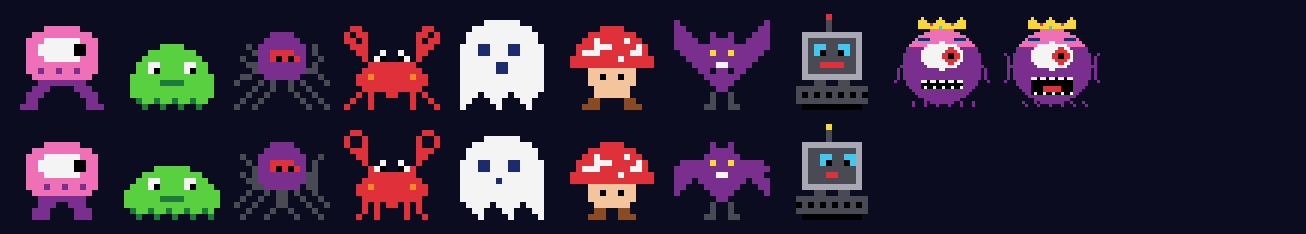
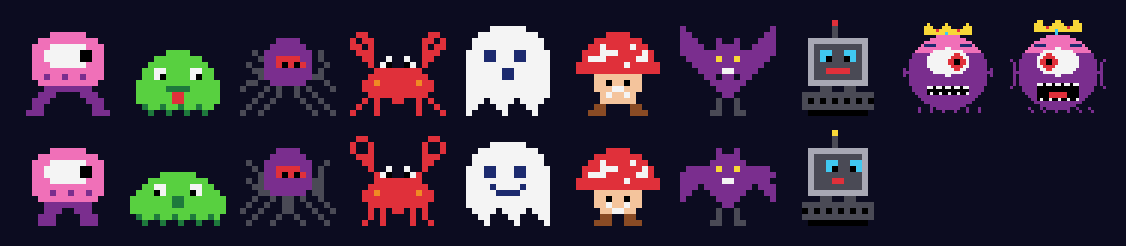
Use Paul's artwork as the standard designs
New looks for monsters 2, 5 and 6, both boss frames and the tile set 4
wall, taken from Paul's own sprites.txt. README pictures redrawn.

Claude-Session: https://claude.ai/code/session_01G6zRDJUmvdf1jbbeAH3QBB

diff --git a/defaults.cpp b/defaults.cpp
@@ -448,8 +448,8 @@ const char defaultSprites[] =
     "..BB70BBBB70BB..\n"
     ".BBBBBBBBBBBBBB.\n"
     ".BBBBB3333BBBBB.\n"
-    ".BBBBBBBBBBBBBB.\n"
-    ".BBBBBBBBBBBBBB.\n"
+    ".BBBBBB88BBBBBB.\n"
+    ".BBBBBB88BBBBBB.\n"
     "..3BB3BB3BB3BB..\n"
     "...3..3..3..3...\n"
     "END\n"
@@ -465,9 +465,9 @@ const char defaultSprites[] =
     ".....BBBBBB.....\n"
     "...BBBBBBBBBB...\n"
     "..BB77BBBB77BB..\n"
-    ".BBB70BBBB70BBB.\n"
-    "BBBBBBBBBBBBBBBB\n"
-    "BBBBBB3333BBBBBB\n"
+    ".BBB07BBBB07BBB.\n"
+    "BBBBBBB33BBBBBBB\n"
+    "BBBBBBB33BBBBBBB\n"
     "BBBBBBBBBBBBBBBB\n"
     ".3BB3BB3BB3BB3B.\n"
     "..3..3..3..3..3.\n"
@@ -581,8 +581,8 @@ const char defaultSprites[] =
     ".77711777117777.\n"
     ".77711777117777.\n"
     ".77777777777777.\n"
-    ".77777717777777.\n"
-    ".77777777777777.\n"
+    ".77771777717777.\n"
+    ".77777111177777.\n"
     ".77777777777777.\n"
     ".77777777777777.\n"
     "..7777.7777.777.\n"
@@ -603,8 +603,8 @@ const char defaultSprites[] =
     ".88888888888888.\n"
     "....FFFFFFFF....\n"
     "....FF0FF0FF....\n"
-    "....FFFFFFFF....\n"
-    ".....FFFFFF.....\n"
+    "....FFF77FFF....\n"
+    ".....F7FF7F.....\n"
     ".....FFFFFF.....\n"
     "....44....44....\n"
     "...444....444...\n"
@@ -623,8 +623,8 @@ const char defaultSprites[] =
     ".88888888888888.\n"
     "....FFFFFFFF....\n"
     "....FF0FF0FF....\n"
-    "....FFFFFFFF....\n"
-    ".....FFFFFF.....\n"
+    "....FF7FF7FF....\n"
+    ".....FF77FF.....\n"
     ".....44..44.....\n"
     "....444..444....\n"
     "END\n"
@@ -1036,13 +1036,13 @@ const char defaultSprites[] =
     "...22222277777778800887222222...\n"
     "...22222277777778800887222222...\n"
     "...22222277777777888877222222...\n"
-    "...22222227777777788772222222...\n"
-    "..2222222227777777777222222222..\n"
+    ".2.22222227777777788772222222.2.\n"
+    ".222222222277777777772222222222.\n"
     ".2.22222222222277222222222222.2.\n"
-    ".2.22222222222222222222222222.2.\n"
-    ".2.22222222222222222222222222.2.\n"
-    ".2.22222222222222222222222222.2.\n"
-    "2...222227707707707707722222...2\n"
+    "...22222222222222222222222222...\n"
+    "...22222222222222222222222222...\n"
+    "...22222222222222222222222222...\n"
+    "....222227707707707707722222....\n"
     "....222220000000000000022222....\n"
     ".....2222070070070070072222.....\n"
     "......22222222222222222222......\n"
@@ -1055,23 +1055,23 @@ const char defaultSprites[] =
     "END\n"
     "\n"
     "SPRITE BOSS2\n"
-    "................................\n"
-    ".........A.....A......A.........\n"
-    "........AAA...AAA....AAA........\n"
+    ".........AA....AA....AA.........\n"
+    "........AAA...AAAA...AAA........\n"
     "........AAAA8AAAAAA8AAAA........\n"
     "........AAAAAAACAAAAAAAA........\n"
+    "...............C................\n"
     "............EEEEEEEE............\n"
     "..........EEEEEEEEEEEE..........\n"
     "........EEEEEEEEEEEEEEEE........\n"
     ".......E1111EEEEEEEE1111E.......\n"
     "......EEEEEEEEE77EEEEEEEEE......\n"
     ".....EEEEEE7777777777EEEEEE.....\n"
-    "....222222777777778877222222....\n"
-    "....222227777777788887722222....\n"
-    "2..22222277777778800887222222..2\n"
-    ".2.22222277777778800887222222.2.\n"
-    ".2.22222277777777888877222222.2.\n"
-    ".2.22222227777777788772222222.2.\n"
+    "....222222778877777777222222....\n"
+    "....222227788887777777722222....\n"
+    "2..22222278800887777777222222..2\n"
+    ".2.22222278800887777777222222.2.\n"
+    ".2.22222277888877777777222222.2.\n"
+    ".2.22222227788777777772222222.2.\n"
     ".222222222277777777772222222222.\n"
     ".2.22222222222277222222222222.2.\n"
     ".2.22222222222222222222222222.2.\n"
@@ -1724,16 +1724,16 @@ const char defaultSprites[] =
     "6666666666666666\n"
     "6555555555555555\n"
     "6555555555555555\n"
-    "6555505555555555\n"
-    "6555550555555055\n"
-    "6555550555555555\n"
-    "6555555055555555\n"
     "6555555555555555\n"
-    "6655555555555555\n"
-    "6655555555505555\n"
-    "6555555555055555\n"
-    "6550555555055555\n"
-    "6555055555555555\n"
+    "6555555555555555\n"
+    "6555666666665555\n"
+    "6556111111111555\n"
+    "6561111111111155\n"
+    "6561111111111155\n"
+    "6561111111111155\n"
+    "6556111111111555\n"
+    "6555555555555555\n"
+    "6555555555555555\n"
     "6555555555555555\n"
     "6555555555555555\n"
     "6555555555555555\n"
